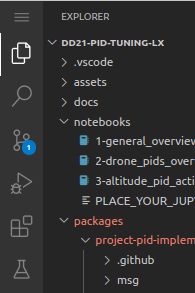
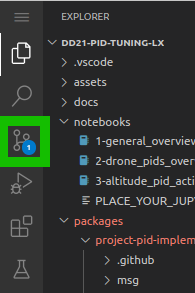
Updated instructions

Changed region(s): [[0.0, 0.3686, 0.2769, 0.5836]]

diff --git a/dd21-pid-tuning-lx/README.md b/dd21-pid-tuning-lx/README.md
@@ -19,6 +19,29 @@ For lecture videos, see:
 
 Follow these instructions to proceed with the learning experience.
 
+### Setting up version control
+
+To be able to pull and push the changes to your exercises you need to clone the repository and setup Git.
+To clone your repository follow these steps:
+
+1. *From the terminal* of your base station go inside the directory of this learning experience (`dd21-pid-tuning`) and move in the directory `packages`:
+
+    ```bash
+    cd dd21-pid-tuning/packages/
+    ```
+
+1. [Create a GitHub personal access token](https://docs.github.com/en/authentication/keeping-your-account-and-data-secure/creating-a-personal-access-token#creating-a-fine-grained-personal-access-token) for your editor. It only needs permissions to read and write to repositories.
+
+1. Clone your assignment's repository by running the following command and following the instructions that pop up (remember to change `<yourGithubUsername>`):
+
+    ```bash
+    git clone https://github.com/h2r/project-pid-implementation-<yourGithubUsername>
+    ```
+
+1. Open the file `GITHUB_CREDENTIALS.sh` and change the variables `GITHUB_USERNAME` and `GITHUB_TOKEN`.
+
+You can now access your project in the sidebar by going in the folder `packages`
+
 ### Launch the code editor
 
 Open the code editor by running the following command,
@@ -88,32 +111,13 @@ All activities have to be run inside the container with the software of the dron
 
 ### Working on the exercise
 
-When you need to modify the code of an exercise and test it on the drone, do so by working on your base station inside this editor, committing the modified file and then pushing it to the remote repo with `git push`.
-
-To clone your repository follow these steps:
-
-1. *From the terminal* of your base station go inside the directory of this learning experience (`dd21-pid-tuning`) and move in the directory `packages`:
-
-    ```bash
-    cd dd21-pid-tuning/packages/
-    ```
-
-1. Clone your assignment's repository by running the following command and following the instructions that pop up (remember to change `<yourGithubUsername>`):
-
-    ```bash
-    git clone https://github.com/h2r/project-pid-implementation-<yourGithubUsername>
-    ```
-
-1. You can now access your project in the sidebar by going in the folder `packages`
+When you need to modify the code of an exercise and test it on the drone, do so by working on your base station inside this editor, committing the modified file and then pushing it to the remote repo.
 
 Make sure to commit the changes and push them to GitHub each time you modify some file.
 
-```bash
-cd project-pid-implementation-<yourGithubName>
-git add -A
-git commit -a -m 'some commit message. maybe hand-in, maybe update'
-git push
-```
+You can do so by using the Version Control tab in VSCode:
+
+![VSCode version control](./assets/_images/vscode_source_control.png)
 
 ## How to get your changes on the Duckiedrone
 
